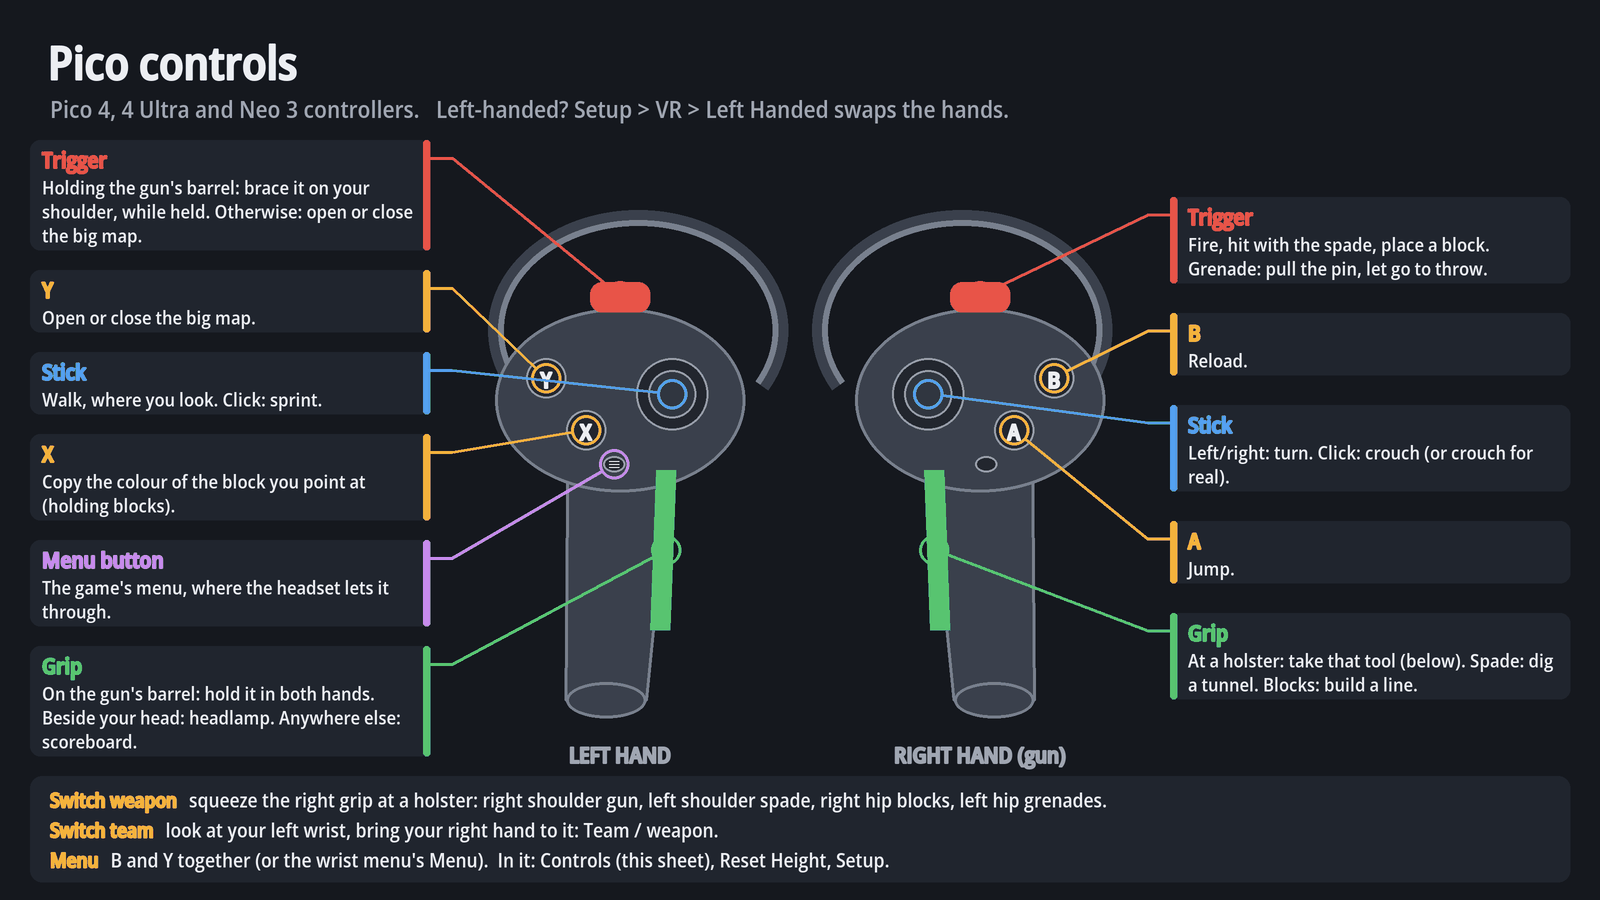
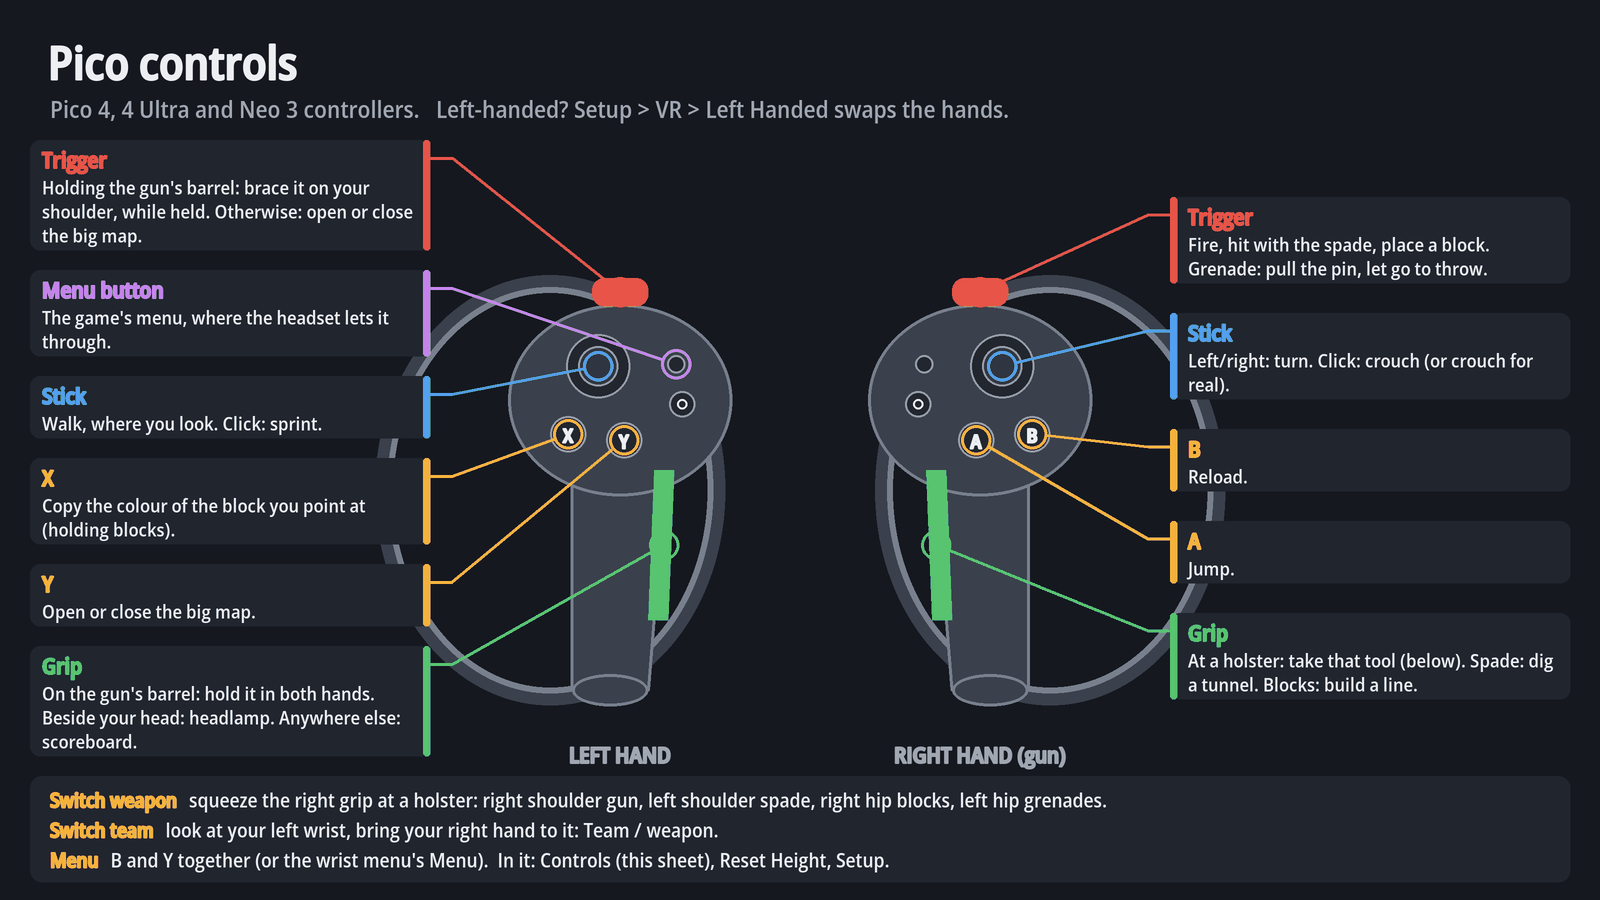
Controller pictures: Pico and Index redrawn from photos
Pico: the hoop round the knuckles, the stick on top, X and Y under it,
Home on the palm side. Index: a round disc with the stick, a tall oval
trackpad and B over A, the halo and strap on the outer side.

Changed region(s): [[0.0, 0.2178, 0.9688, 0.8089], [0.6875, 0.56, 0.7188, 0.5911], [0.0, 0.4978, 0.0312, 0.5289]]

diff --git a/tools/vr-controls/make_controls.py b/tools/vr-controls/make_controls.py
@@ -233,25 +233,39 @@ def touch(s, cx, cy, hand, ring, letters=None, bumper=False):
 
 
 def index(s, cx, cy, hand):
-    """Valve Index: a tall handle; the hand is strapped on, the grip is a
-    squeeze of the whole handle."""
+    """Valve Index (from Valve's photo): a round disc on a tall handle, and a
+    halo arm round over the back of the hand. On the disc the stick toward
+    the thumb, a tall oval trackpad in the middle, B
+    above A at the outer edge and the system button under the trackpad. The
+    hand is strapped on; the grip is a squeeze of the whole handle."""
     m = hand
-    s.rrect(cx - 50, cy - 170, cx + 50, cy + 270, 46, fill=BODY, outline=BODY_EDGE, width=3)
-    # The strap, on the outside.
-    s.rrect(cx + 52 * m - 7, cy - 120, cx + 52 * m + 7, cy + 220, 6, fill=(44, 48, 58))
-    s.rrect(cx - 30, cy - 196, cx + 30, cy - 166, 12, fill=COLOURS["trigger"])
-    s.rrect(cx - 54, cy + 40, cx + 54, cy + 230, 30, outline=COLOURS["grip"], width=6)
-    st = (cx - 8 * m, cy - 118)
+    # The halo: out from the disc and round over the back of the hand, on
+    # the outer side (with the strap)
+    s.arc(cx + 120 * m, cy + 40, 90, 170, -90 if m > 0 else 90, 90 if m > 0 else 270,
+          BODY_EDGE, 18)
+    s.arc(cx + 120 * m, cy + 40, 90, 170, -90 if m > 0 else 90, 90 if m > 0 else 270,
+          BODY, 12)
+    # Handle, with the strap down its outside
+    s.rrect(cx - 46, cy + 30, cx + 46, cy + 300, 40, fill=BODY, outline=BODY_EDGE, width=3)
+    s.rrect(cx + 44 * m - 7, cy + 70, cx + 44 * m + 7, cy + 280, 6, fill=(44, 48, 58))
+    s.rrect(cx - 50, cy + 90, cx + 50, cy + 260, 30, outline=COLOURS["grip"], width=6)
+    # Trigger at the top front
+    s.rrect(cx - 28, cy - 132, cx + 28, cy - 104, 12, fill=COLOURS["trigger"])
+    # The disc
+    s.ellipse(cx, cy, 110, 110, fill=BODY, outline=BODY_EDGE, width=3)
+    st = (cx - 56 * m, cy - 22)
     stick(s, *st, r=24)
-    a = (cx + 26 * m, cy - 52)
-    b = (cx + 26 * m, cy - 84)
-    button(s, *a, 13, "A")
-    button(s, *b, 13, "B")
-    s.rrect(cx - 24, cy - 40, cx + 14, cy + 20, 18, fill=PART, outline=COLOURS["unused"], width=2)
-    sysb = (cx - 4, cy + 34)
-    s.ellipse(sysb[0], sysb[1], 7, 7, fill=PART, outline=PART_EDGE, width=2)
-    return {"trigger": (cx, cy - 182), "grip": (cx - 54 * m, cy + 150), "stick": st,
-            "lo": a, "hi": b, "pad": (cx - 5, cy - 10)}
+    pad = (cx + 4 * m, cy + 2)
+    s.rrect(pad[0] - 22, pad[1] - 46, pad[0] + 22, pad[1] + 46, 22, fill=PART,
+            outline=COLOURS["unused"], width=2)
+    b = (cx + 62 * m, cy - 22)
+    a = (cx + 56 * m, cy + 26)
+    button(s, *b, 15, "B")
+    button(s, *a, 15, "A")
+    sysb = (cx + 18 * m, cy + 70)
+    s.ellipse(sysb[0], sysb[1], 11, 11, fill=PART, outline=PART_EDGE, width=2)
+    return {"trigger": (cx, cy - 118), "grip": (cx - 50 * m, cy + 175), "stick": st,
+            "lo": a, "hi": b, "pad": pad}
 
 
 def vive(s, cx, cy, hand):
@@ -361,6 +375,43 @@ def frame(s, cx, cy, hand):
     return pts
 
 
+def pico(s, cx, cy, hand):
+    """Pico 4 and 4 Ultra (from a photo): a big hoop round the knuckles,
+    joined at the top of the face and the bottom of the handle; the stick at
+    the top of the face, the two face buttons side by side under it, and the
+    Home button (a small circle) with a smaller one above it on the palm
+    side."""
+    m = hand
+    # The hoop, in front of the fingers: from the face out and round
+    s.ellipse(cx + 70 * m, cy + 90, 175, 215, outline=BODY_EDGE, width=18)
+    s.ellipse(cx + 70 * m, cy + 90, 175, 215, outline=BODY, width=12)
+    # Handle
+    s.poly([(cx - 48, cy + 40), (cx + 48, cy + 40), (cx + 38 + 10 * m, cy + 290),
+            (cx - 38 + 10 * m, cy + 290)], fill=BODY, outline=BODY_EDGE, width=3)
+    s.ellipse(cx + 10 * m, cy + 290, 38, 16, fill=BODY, outline=BODY_EDGE, width=3)
+    # Face
+    s.ellipse(cx, cy, 112, 96, fill=BODY, outline=BODY_EDGE, width=3)
+    s.rrect(cx - 28, cy - 122, cx + 28, cy - 94, 12, fill=COLOURS["trigger"])
+    gx = cx - 44 * m
+    s.poly([(gx - 10, cy + 70), (gx + 10, cy + 70), (gx + 10 + 6 * m, cy + 220),
+            (gx - 10 + 6 * m, cy + 220)], fill=COLOURS["grip"])
+    st = (cx + 22 * m, cy - 34)
+    stick(s, *st, r=26)
+    # The photo's left controller has X out and Y in; the right mirrors it
+    left = m < 0
+    lo = (cx + 52 * m, cy + 34) if left else (cx - 4 * m, cy + 40)
+    hi = (cx - 4 * m, cy + 40) if left else (cx + 52 * m, cy + 34)
+    button(s, *lo, 18, "X" if left else "A")
+    button(s, *hi, 18, "Y" if left else "B")
+    home = (cx - 62 * m, cy + 4)
+    s.ellipse(home[0], home[1], 13, 13, fill=PART, outline=PART_EDGE, width=2)
+    s.ellipse(home[0], home[1], 5, 5, outline=TEXT, width=2)
+    small = (cx - 56 * m, cy - 36)
+    s.ellipse(small[0], small[1], 9, 9, fill=PART, outline=PART_EDGE, width=2)
+    return {"trigger": (cx, cy - 108), "grip": (gx, cy + 145), "stick": st,
+            "lo": lo, "hi": hi, "sys": small}
+
+
 # --- what the controls do ---------------------------------------------------
 # Kept with VR.md's Controls table and the client (Client::UpdateVRPlayerInput,
 # OpenXRSystem::SuggestBindings).
@@ -426,7 +477,7 @@ def touch_letter(name, key, m):
     return PS_NAMES.get(l, l)
 
 
-def touch_slide(name, title, subtitle, ring=None):
+def touch_slide(name, title, subtitle, ring=None, draw=None):
     menu = TOUCH_FAMILIES[name][3]
     left = [
         ("trigger", "trigger", "Trigger", L_TRIGGER),
@@ -452,14 +503,15 @@ def touch_slide(name, title, subtitle, ring=None):
         foot = STANDARD_FOOT[:2] + [("Menu", "Triangle and Circle together (or the wrist "
                                              "menu's Menu).  In it: Controls, Reset Height, "
                                              "Setup.")]
-    controller_slide(name + ".png", title, subtitle, touch_draw(name), left, right, foot)
+    controller_slide(name + ".png", title, subtitle, draw or touch_draw(name), left, right,
+                     foot)
 
 
 def main():
     touch_slide("Quest2", "Meta Quest 2 controls", "Touch controllers (also Rift S)")
     touch_slide("Quest3", "Meta Quest 3 controls",
                 "Touch Plus controllers (also Quest 3S and Quest Pro)")
-    touch_slide("Pico", "Pico controls", "Pico 4, 4 Ultra and Neo 3 controllers")
+    touch_slide("Pico", "Pico controls", "Pico 4, 4 Ultra and Neo 3 controllers", draw=pico)
     touch_slide("Focus3", "HTC Vive Focus controls", "Vive Focus 3 and XR Elite controllers")
     touch_slide("Cosmos", "HTC Vive Cosmos controls", "Vive Cosmos controllers")
     touch_slide("Reverb", "HP Reverb G2 controls", "Reverb G2 controllers")
@@ -602,7 +654,7 @@ BIND_INPUTS = {
                        {"trigger": "Trigger", "grip": "Grip", "stick": "StickClick",
                         "lo": "Primary", "hi": "Secondary"}), True),
     "Quest3": (touch, None, False),
-    "Pico": ("touch", None, None),
+    "Pico": (pico, None, None),
     "Focus3": ("touch", None, None),
     "Cosmos": ("touch", None, None),
     "Reverb": ("touch", None, None),
